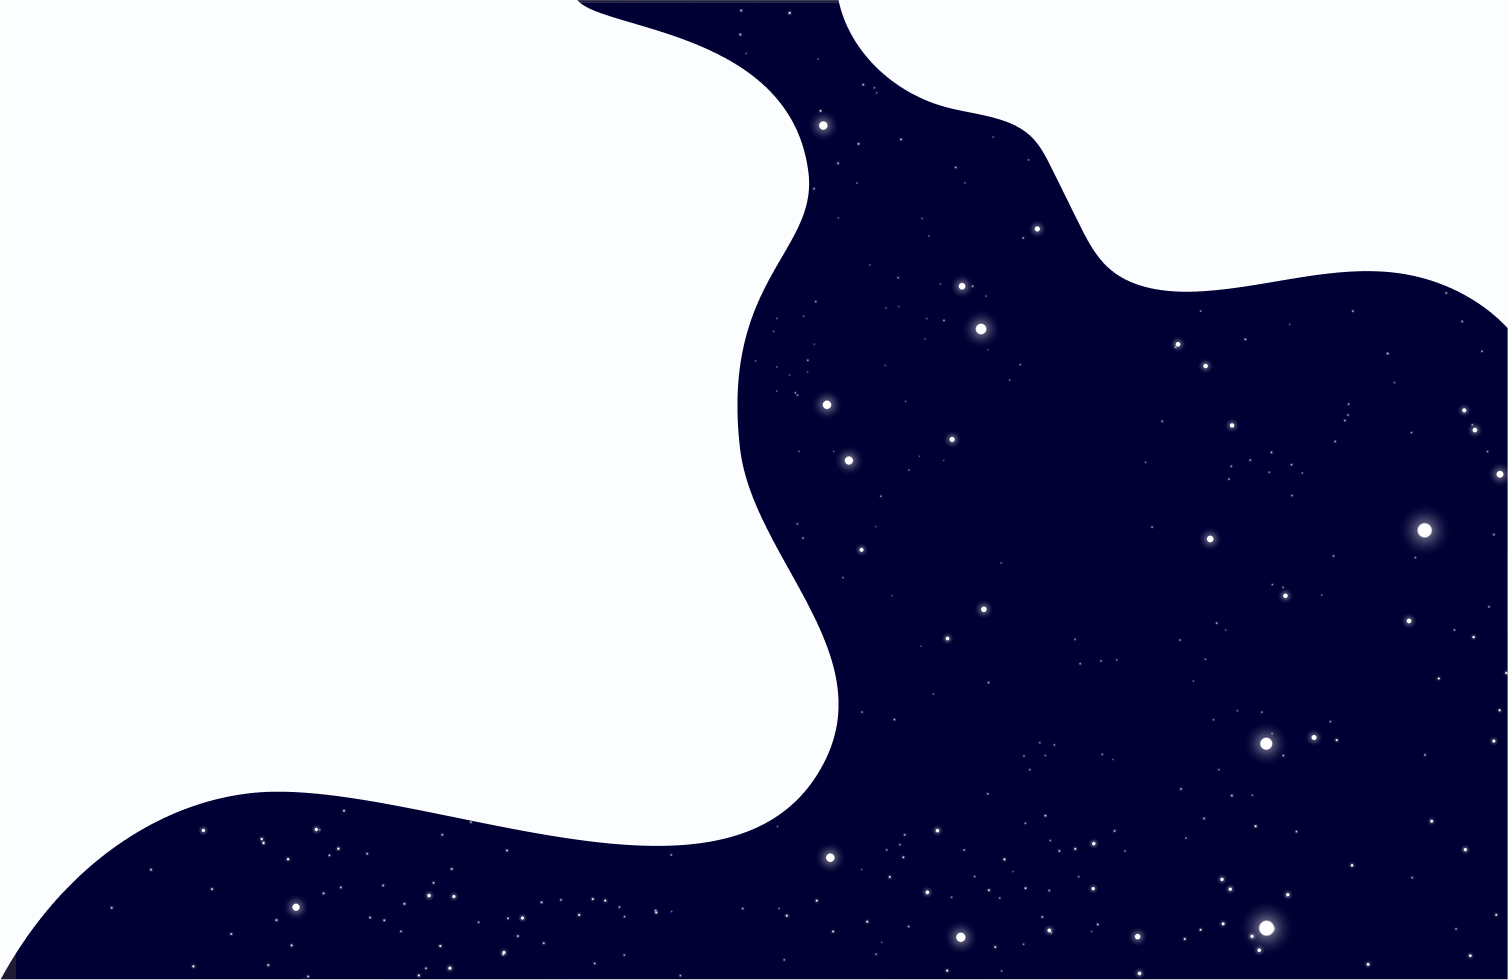
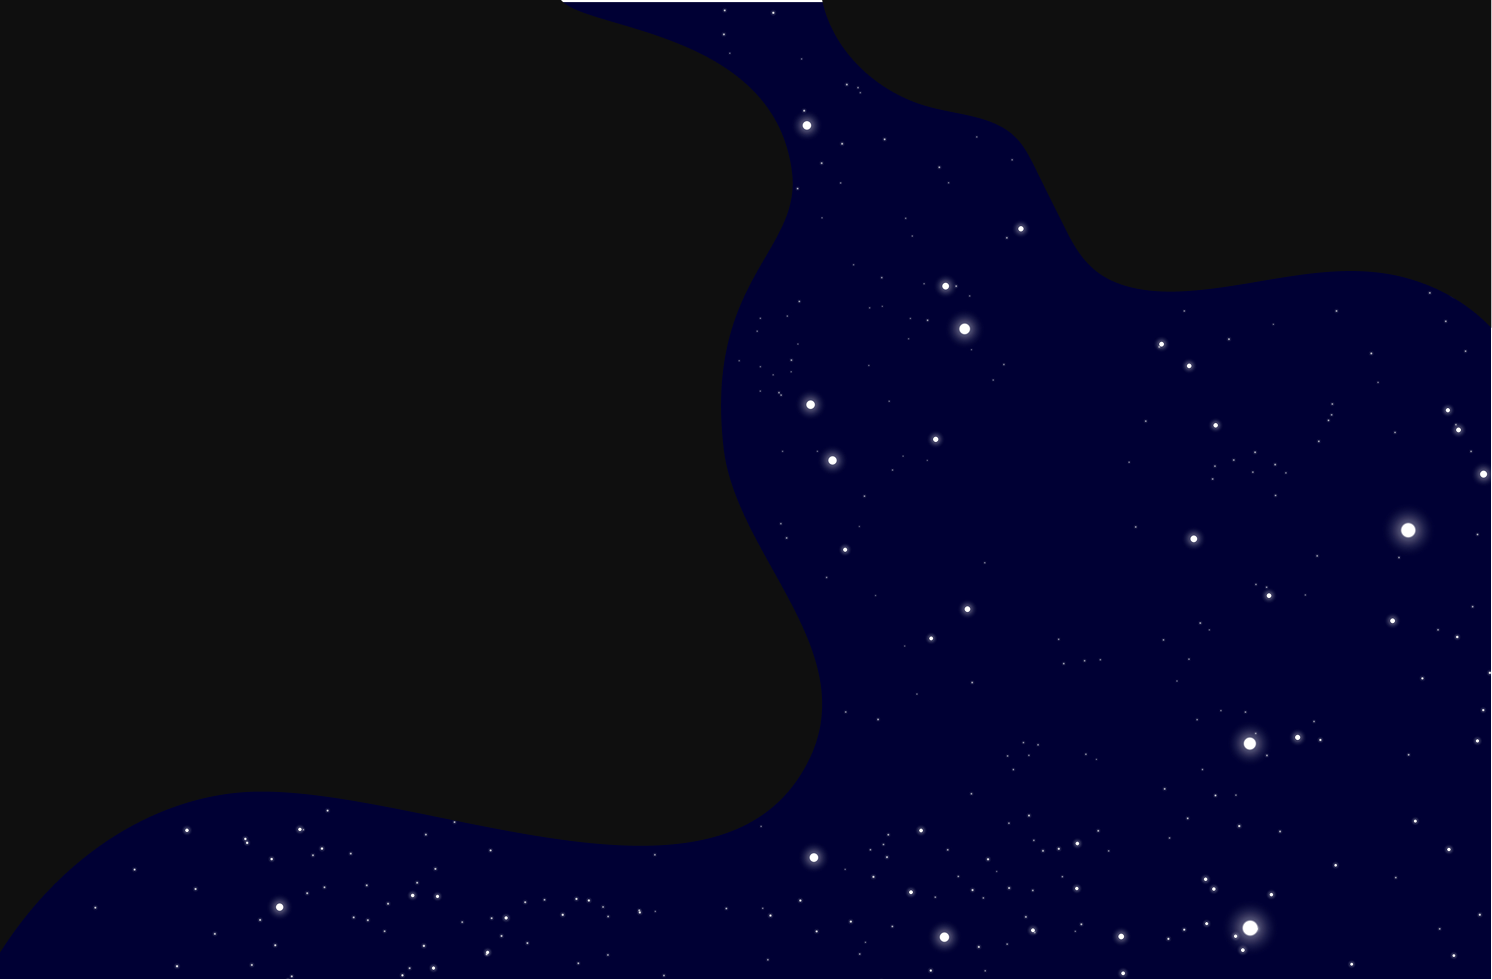
add some adjustments

diff --git a/src/components/navigation.ts b/src/components/navigation.ts
@@ -1,45 +1,60 @@
 import { fireRibbons, hideRibbons } from "./ribbons.ts";
-import { addNewPlayerToRoom, createRoom, getRandomRoom } from "../server/rooms.ts";
+import {
+  addNewPlayerToRoom,
+  createRoom,
+  getRandomRoom,
+} from "../server/rooms.ts";
 import { createNewPlayer, createRandomPlayer } from "../server/player.ts";
 import type { Player } from "../types/player.ts";
 import type { Room } from "../types/room.ts";
 import { updateRoom } from "../server/server.ts";
 import { startGame } from "./game.ts";
 import { createSound } from "./sound.ts";
-import swipeSound from '../assets/sounds/swipe.mp3';
+import swipeSound from "../assets/sounds/swipe.mp3";
 
 const RIBBONS_ANIMATION_DURATION = 1000;
 
-const roomField = document.querySelector('#room-field') as HTMLElement;
-const createRoomBtn = document.querySelector('#create-room-btn') as HTMLElement;
-const home = document.querySelector('#home') as HTMLElement;
-const selectGamePage = document.querySelector('#form-section') as HTMLElement;
-const roomsTable = document.querySelector('#available-rooms') as HTMLElement;
-const game = document.querySelector('#game') as HTMLElement;
-const form = document.querySelector('#form') as HTMLElement;
+const roomField = document.querySelector("#room-field") as HTMLElement;
+const createRoomBtn = document.querySelector("#create-room-btn") as HTMLElement;
+const home = document.querySelector("#home") as HTMLElement;
+const selectGamePage = document.querySelector("#form-section") as HTMLElement;
+const roomsTable = document.querySelector("#available-rooms") as HTMLElement;
+const game = document.querySelector("#game") as HTMLElement;
+const form = document.querySelector("#form") as HTMLElement;
 
 /**
  * Setups the game navigation and adds event listeners to all needed buttons
  */
 export function setUpNavigation() {
-  const fastGameBtn = document.querySelector("#navigation-fast-game-btn") as HTMLElement;
-  const selectGameBtn = document.querySelector("#navigation-select-room-btn") as HTMLElement;
-  const createGameBtn = document.querySelector("#navigation-create-room-btn") as HTMLElement;
+  const fastGameBtn = document.querySelector(
+    "#navigation-fast-game-btn"
+  ) as HTMLElement;
+  const selectGameBtn = document.querySelector(
+    "#navigation-select-room-btn"
+  ) as HTMLElement;
+  const createGameBtn = document.querySelector(
+    "#navigation-create-room-btn"
+  ) as HTMLElement;
 
   selectGameBtn.addEventListener("click", () => {
-    const roomBtns = [...document.querySelectorAll('.select-room-button')] as HTMLElement[];
+    const roomBtns = [
+      ...document.querySelectorAll(".select-room-button"),
+    ] as HTMLElement[];
 
-    roomBtns.forEach(roomBtn => {
+    roomBtns.forEach((roomBtn) => {
       roomBtn.addEventListener("click", () => {
         const roomId = Number(roomBtn.getAttribute("data-room-id"));
         const player: Player = createNewPlayer();
 
-        const updatedRoom: Room | undefined = addNewPlayerToRoom(roomId, player);
+        const updatedRoom: Room | undefined = addNewPlayerToRoom(
+          roomId,
+          player
+        );
 
         if (updatedRoom) {
           updateRoom(updatedRoom);
 
-          startGame(updatedRoom.players[0], updatedRoom.players[1])
+          startGame(updatedRoom.players[0], updatedRoom.players[1]);
           animatePageSwitching(showGame);
         }
       });
@@ -64,7 +79,7 @@ export function setUpNavigation() {
     addNewPlayerToRoom(randomRoom.id, player);
     updateRoom(randomRoom);
 
-    startGame(randomRoom.players[0], randomRoom.players[1])
+    startGame(randomRoom.players[0], randomRoom.players[1]);
     animatePageSwitching(showGame);
   });
 
@@ -79,28 +94,28 @@ export function setUpNavigation() {
  * Shows content needed to select game
  */
 function showSelectGamePage() {
-  roomField.classList.add('is-hidden');
-  createRoomBtn.classList.add('is-hidden');
-  home.classList.add('is-hidden');
-  selectGamePage.classList.remove('is-hidden');
+  roomField.classList.add("is-hidden");
+  createRoomBtn.classList.add("is-hidden");
+  home.classList.add("is-hidden");
+  selectGamePage.classList.remove("is-hidden");
 }
 
 /**
  * Shows content needed to create game
  */
 function showCreateGamePage() {
-  roomsTable.classList.add('is-hidden');
-  home.classList.add('is-hidden');
-  selectGamePage.classList.remove('is-hidden');
+  roomsTable.classList.add("is-hidden");
+  home.classList.add("is-hidden");
+  selectGamePage.classList.remove("is-hidden");
 }
 
 /**
  * Shows content needed for the game itself
  */
 function showGame() {
-  home.classList.add('is-hidden');
-  selectGamePage.classList.add('is-hidden');
-  game.classList.remove('is-hidden');
+  home.classList.add("is-hidden");
+  selectGamePage.classList.add("is-hidden");
+  game.classList.remove("is-hidden");
 }
 
 /**

diff --git a/src/components/navbar.ts b/src/components/navbar.ts
@@ -1,8 +1,10 @@
 import { toggleRibbons } from "./ribbons.ts";
+import swipeSound from "../assets/sounds/swipe.mp3";
+import { createSound } from "./sound.ts";
 
-const navbar = document.querySelector('.nav') as HTMLElement;
-const navbarMenuBtn = document.querySelector('.nav-menu-btn') as HTMLElement;
-const navbarLineWrapper = document.querySelector('.nav-lines') as HTMLElement;
+const navbar = document.querySelector(".nav") as HTMLElement;
+const navbarMenuBtn = document.querySelector(".nav-menu-btn") as HTMLElement;
+const navbarLineWrapper = document.querySelector(".nav-lines") as HTMLElement;
 
 /**
  * This function is responsible for setting up an adaptive menu on small devices
@@ -15,7 +17,15 @@ export function setupAdaptiveMenuBtn() {
     navbarLineWrapper.appendChild(line);
   }
 
-  navbarMenuBtn.addEventListener('click', () => {
+  navbarMenuBtn.addEventListener("click", () => {
+    const { startSound } = createSound({
+      src: swipeSound,
+      infinite: false,
+      loudness: 0.9,
+    });
+    
+    startSound();
+
     navbar.classList.toggle("is-active");
     toggleRibbons();
   });

diff --git a/src/styles/components/ribbons.css b/src/styles/components/ribbons.css
@@ -16,9 +16,10 @@
   background-color: var(--purple-color);
   transition: width 0.5s ease-out;
 
-  background-image: url('../../assets/images/ribbons_bg.jpg');
+  background-image: url('../../assets/images/ribbons_bg.png');
   background-repeat: repeat;
-  background-size: contain;
+  background-attachment: fixed;
+  background-size: 400px;
 }
 
 .ribbon:nth-child(even) {

diff --git a/src/styles/components/navbar.css b/src/styles/components/navbar.css
@@ -2,7 +2,7 @@
   max-width: var(--max-page-width);
 
   position: relative;
-  z-index: 5;
+  z-index: 3;
 
   max-width: var(--max-page-width);
   margin-inline: auto;
@@ -39,7 +39,7 @@
 .nav.is-active .nav-brand,
 .nav.is-active .nav-brand span,
 .nav.is-active .nav-link {
-  color: var(--light-color);
+  color: var(--dark-color);
 }
 
 .nav-list {
